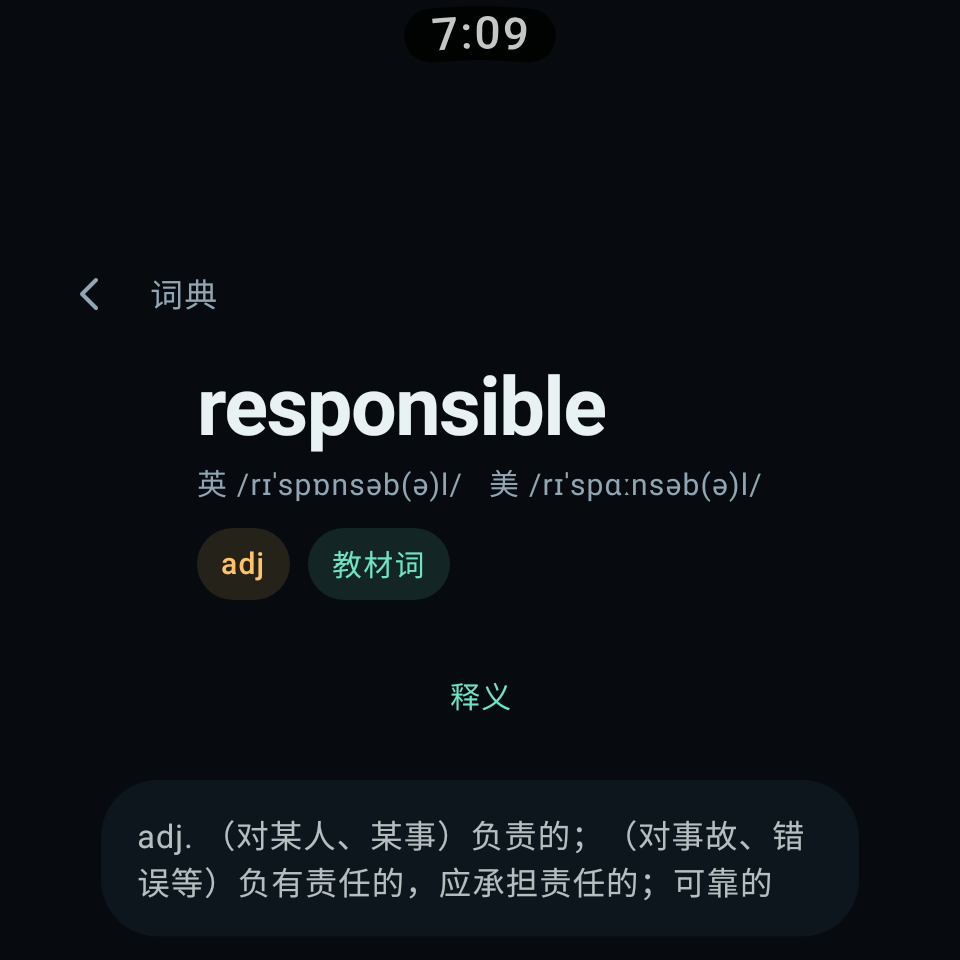
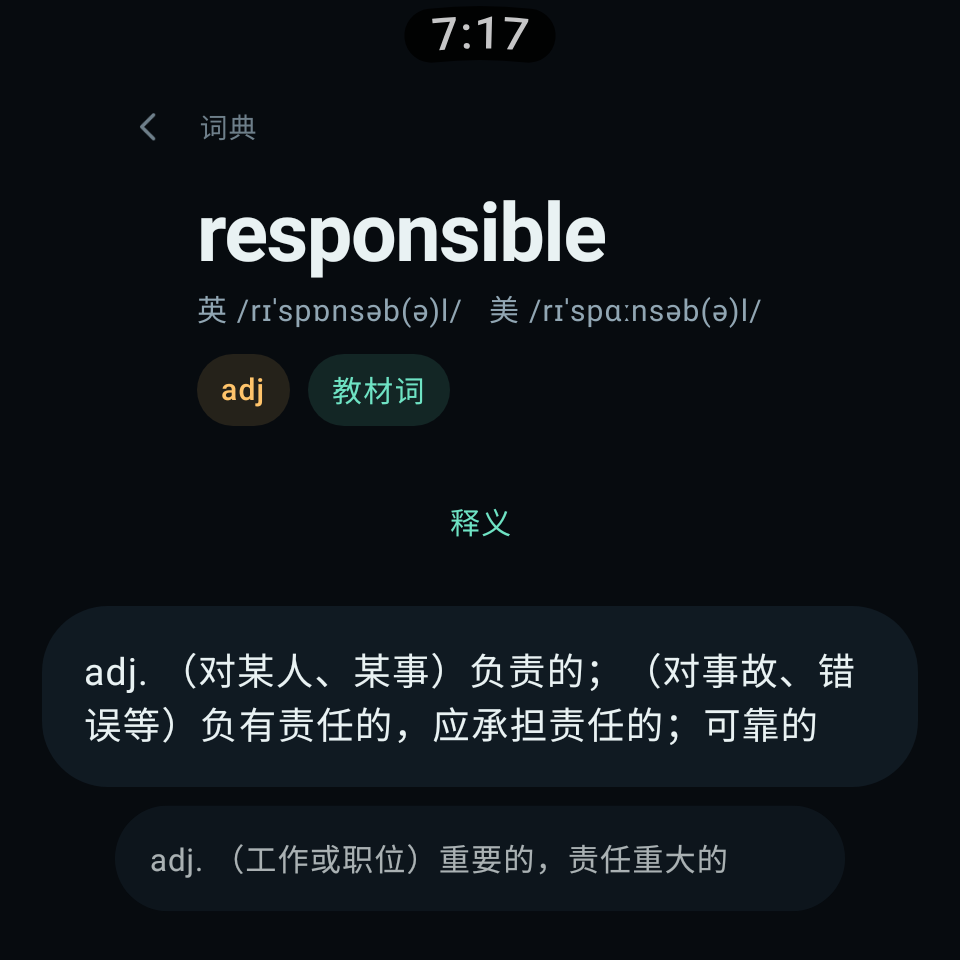
polish: 内容页关闭自动居中，首屏信息密度更高

diff --git a/app/src/main/java/com/dsdzm/lexiwear/ui/screens/TextbookScreens.kt b/app/src/main/java/com/dsdzm/lexiwear/ui/screens/TextbookScreens.kt
@@ -101,6 +101,7 @@ fun VersionsScreen(
             state = rememberScalingLazyListState(),
             modifier = Modifier.fillMaxSize(),
             contentPadding = PaddingValues(horizontal = 14.dp, vertical = 24.dp),
+            autoCentering = null,
             verticalArrangement = Arrangement.spacedBy(6.dp),
         ) {
             item { TopBar("教材词表", onBack) }
@@ -148,6 +149,7 @@ fun BooksScreen(
             state = rememberScalingLazyListState(),
             modifier = Modifier.fillMaxSize(),
             contentPadding = PaddingValues(horizontal = 14.dp, vertical = 24.dp),
+            autoCentering = null,
             verticalArrangement = Arrangement.spacedBy(6.dp),
         ) {
             item { TopBar("选择册次", onBack) }
@@ -200,6 +202,7 @@ fun UnitsScreen(
             state = rememberScalingLazyListState(),
             modifier = Modifier.fillMaxSize(),
             contentPadding = PaddingValues(horizontal = 14.dp, vertical = 24.dp),
+            autoCentering = null,
             verticalArrangement = Arrangement.spacedBy(6.dp),
         ) {
             item { TopBar("选择单元", onBack) }
@@ -254,6 +257,7 @@ fun UnitWordsScreen(
             state = rememberScalingLazyListState(),
             modifier = Modifier.fillMaxSize(),
             contentPadding = PaddingValues(horizontal = 14.dp, vertical = 24.dp),
+            autoCentering = null,
             verticalArrangement = Arrangement.spacedBy(5.dp),
         ) {
             item { TopBar("单元词表", onBack) }

diff --git a/app/src/main/java/com/dsdzm/lexiwear/ui/screens/SearchScreen.kt b/app/src/main/java/com/dsdzm/lexiwear/ui/screens/SearchScreen.kt
@@ -126,7 +126,8 @@ fun SearchScreen(
                 state = rememberScalingLazyListState(),
                 modifier = Modifier.fillMaxSize(),
                 contentPadding = PaddingValues(vertical = 6.dp),
-                verticalArrangement = Arrangement.spacedBy(6.dp),
+                autoCentering = null,
+            verticalArrangement = Arrangement.spacedBy(6.dp),
             ) {
                 when {
                     query.isBlank() -> item {

diff --git a/app/src/main/java/com/dsdzm/lexiwear/ui/screens/WordScreen.kt b/app/src/main/java/com/dsdzm/lexiwear/ui/screens/WordScreen.kt
@@ -64,6 +64,7 @@ fun WordScreen(
             state = rememberScalingLazyListState(),
             modifier = Modifier.fillMaxSize(),
             contentPadding = PaddingValues(horizontal = 14.dp, vertical = 24.dp),
+            autoCentering = null,
             verticalArrangement = Arrangement.spacedBy(6.dp),
         ) {
             item { TopBar("词典", onBack) }
